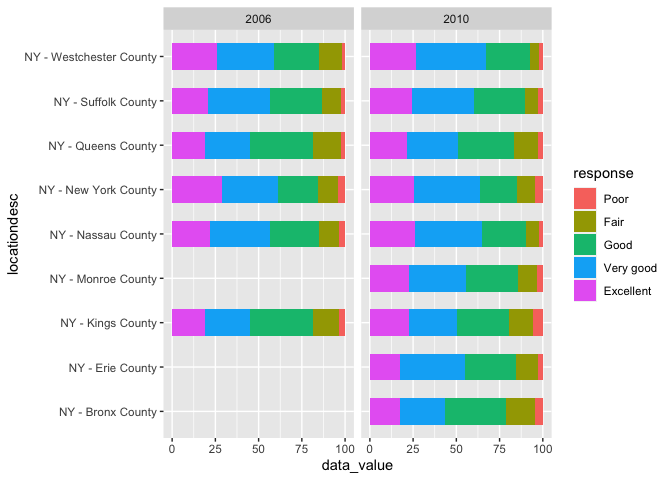
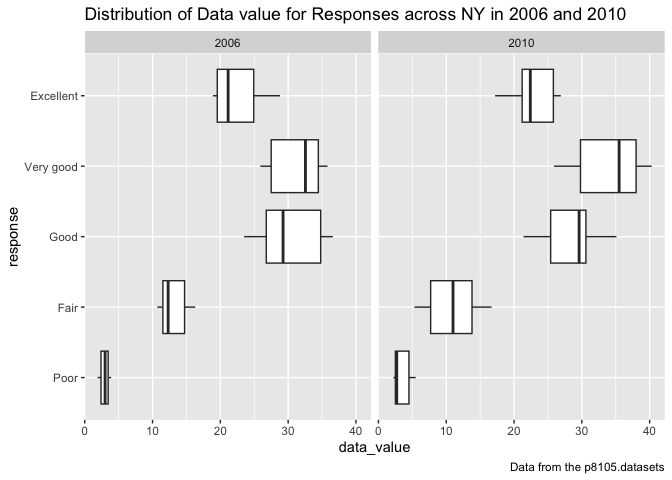
some revisions on problem 2 question 3

diff --git a/p8105_hw3_xw2962.md b/p8105_hw3_xw2962.md
@@ -378,11 +378,14 @@ distribution_df = brfss_smart_df|>
     year == 2006 | year == 2010)
 
 distribution_plot= distribution_df |>
-  ggplot(aes(x = locationdesc, y = data_value, fill = response)) + 
-  geom_col(position = 'stack', width = 0.6)+
+  ggplot(aes(x = response, y = data_value)) + 
+  geom_boxplot()+
   facet_grid(. ~ year)+
-  coord_flip()
-
+   coord_flip()+
+  labs(
+    title = "Distribution of Data value for Responses across NY in 2006 and 2010",
+    caption = "Data from the p8105.datasets"
+  )
 distribution_plot
 ```
 
@@ -392,18 +395,16 @@ distribution_plot
 
 For making the two-panel plot, we first filtered out the rows for which
 state is NY and then filtered out the rows for which years are 2006 and
-2010. Then we set the aesthetics using locationdesc as x variable and
-data_value as y variable and response as fill, creating bar plots using
-geom_col. And next we create two panels seperately for year 2006 and
-year 2010 using facet function. Last, we flip the plot using
-coord_flip() to make better view. We can see on the plot that larger the
-data value, worse the response for both years. Distribution of data
-value for excellent response is around 0 to 25 for each county in NY.
-Distribution of data value for good and very good responses are around
-25 to 75 for each county in NY. And distribution of data value for fair
-and poor responses are around 75 to 100 for each county in NY. The
-distribution of data values for good and very good responses take the
-largest percentage or part of the whole distribution.
+2010. Then we set the aesthetics using response as x variable and
+data_value as y variable, creating boxplots using geom_boxplot. And next
+we created two panels seperately for year 2006 and year 2010 using facet
+function. Last, we flipped the plot using coord_flip() and added some
+labels to make a better view.
+
+From this plot, we can see that distributions for very good and good
+groups are the highest between 30 to 40 in both years. Distributions for
+excellent group and fair are between 10 to 30 in both years. And
+distributions for poor are lowest between 0 and 10 in both years.
 
 ## Problem Three
 
